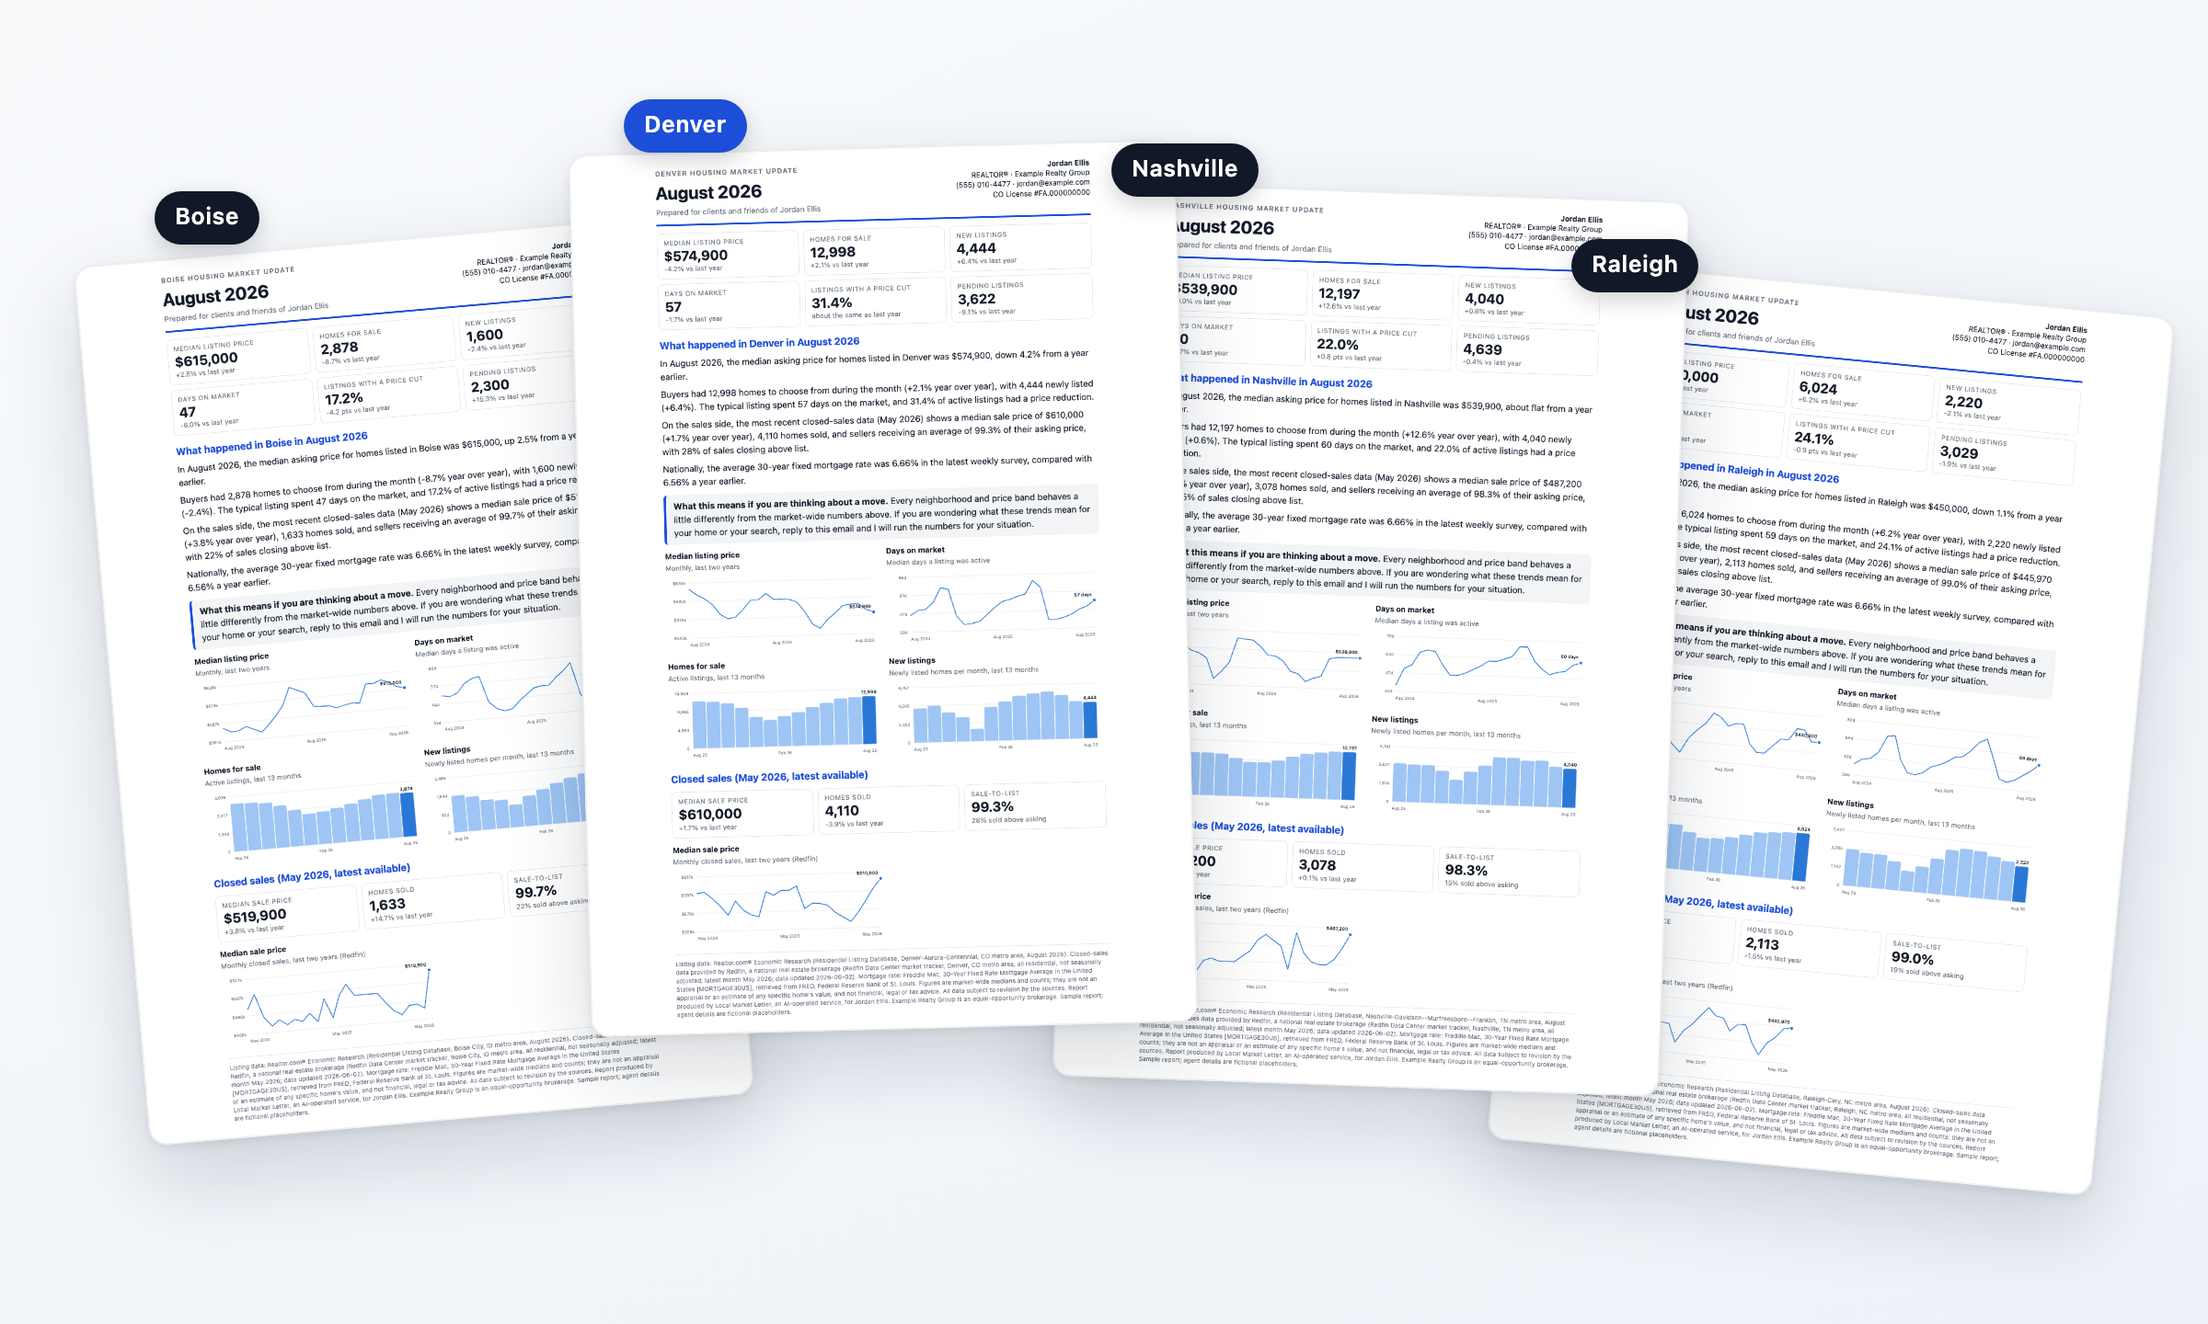
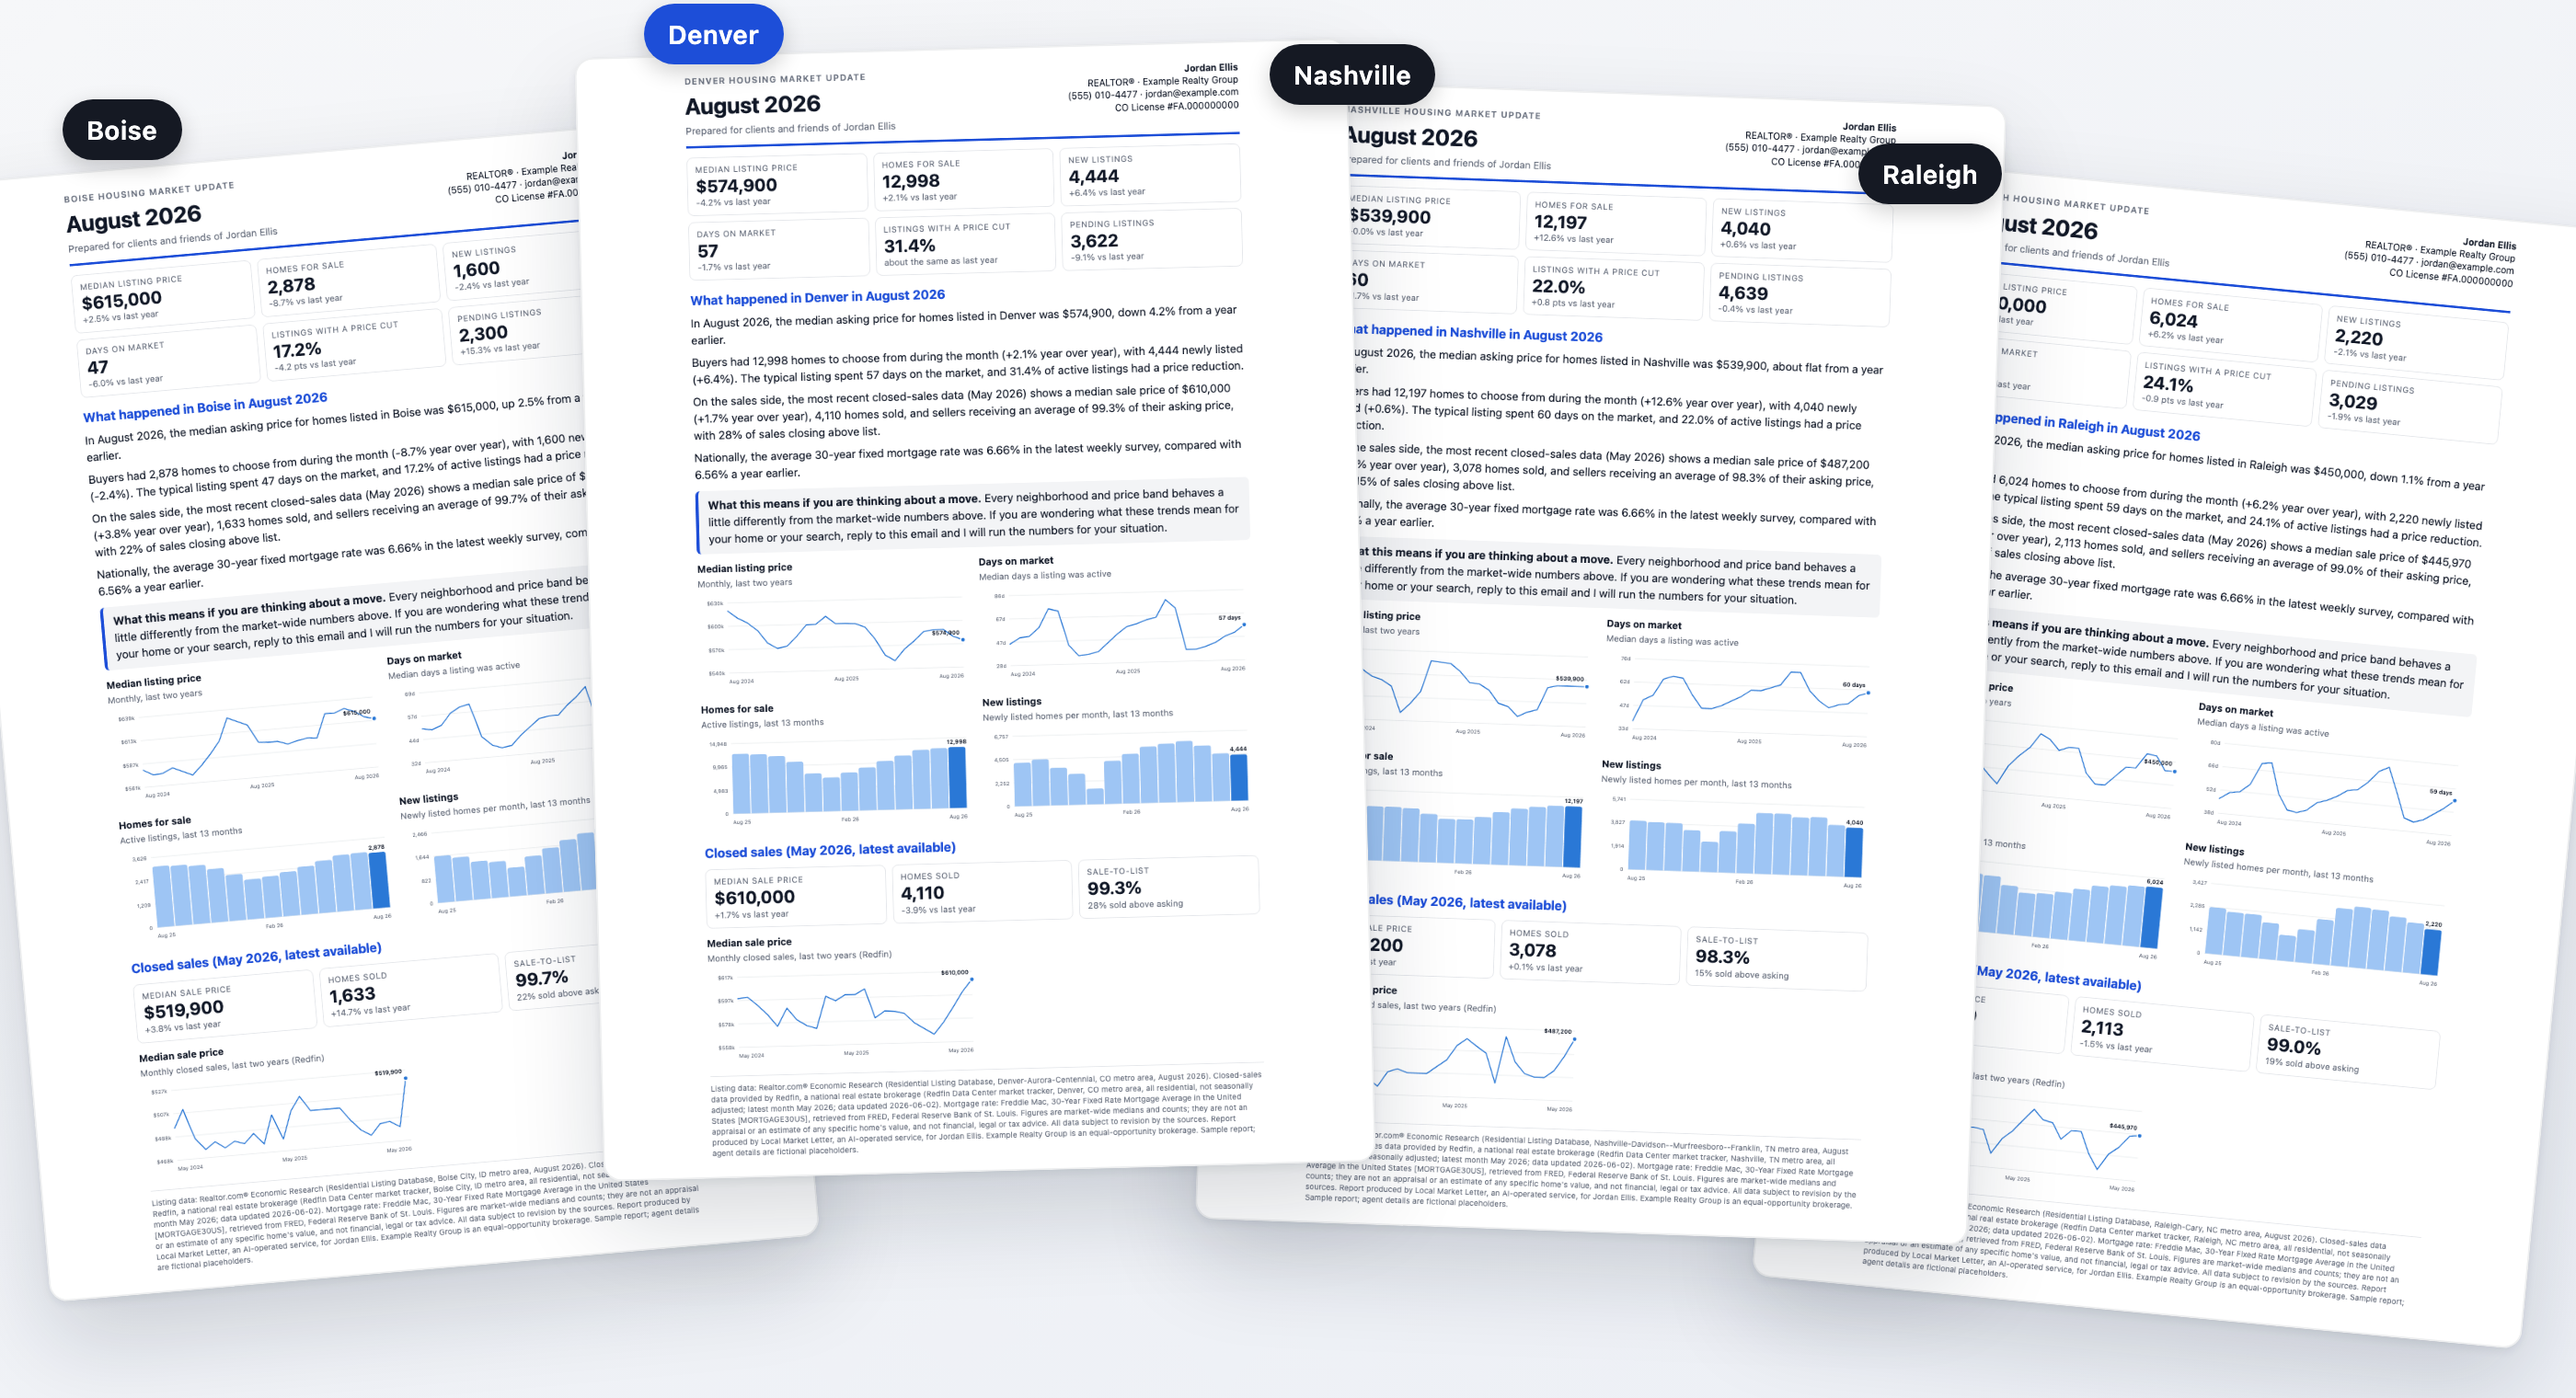
Full-width report spread under the hero copy

Changed region(s): [[0.0, 0.0, 1.0, 1.0], [0.6562, 0.6562, 0.6875, 0.7188]]

diff --git a/index.html b/index.html
@@ -56,13 +56,14 @@ nav ul a:hover{color:var(--ink)}
 .btn.sm{padding:.55rem 1rem;font-size:.92rem}
 
 /* hero: asymmetric split */
-.hero{padding:3.5rem 0 3rem}
-.hero .wrap{display:grid;grid-template-columns:1.1fr 1fr;gap:3rem;align-items:center}
+.hero{padding:3.5rem 0 2.5rem}
+.hero .wrap{display:grid;grid-template-columns:1fr;gap:2.5rem}
+.hero .copy{max-width:640px}
 .eyebrow{display:inline-block;font-size:.8rem;font-weight:600;letter-spacing:.06em;text-transform:uppercase;color:var(--brand);margin-bottom:1rem}
-.hero h1{font-size:clamp(2.1rem,3.4vw,2.6rem);font-weight:700;max-width:20ch;margin-bottom:1.1rem}
-.hero .lede{font-size:1.15rem;max-width:36ch;margin-bottom:1.6rem}
+.hero h1{font-size:clamp(2.2rem,4vw,3.1rem);font-weight:700;max-width:18ch;margin-bottom:1.1rem}
+.hero .lede{font-size:1.15rem;max-width:44ch;margin-bottom:1.6rem}
 .hero .ctas{display:flex;gap:.6rem;flex-wrap:wrap}
-.hero img{border-radius:var(--r);box-shadow:var(--shadow)}
+.hero img{border-radius:var(--r);box-shadow:var(--shadow);width:100%}
 
 .facts{border-top:1px solid var(--hair);border-bottom:1px solid var(--hair);background:var(--panel);padding:1.5rem 0}
 .facts .wrap{display:grid;grid-template-columns:repeat(4,1fr);gap:1.5rem}
@@ -147,7 +148,7 @@ footer b{color:var(--ink)}
 footer p{margin:0 0 .3rem}
 
 @media (max-width:900px){
-  .hero .wrap,.split,.bento,.plans,footer .wrap{grid-template-columns:1fr}
+  .split,.bento,.plans,footer .wrap{grid-template-columns:1fr}
   .hero{padding-top:2.5rem}
   .hero h1{max-width:none}
   .cell.big{grid-row:auto}
@@ -188,7 +189,7 @@ footer p{margin:0 0 .3rem}
 
   <section class="hero">
     <div class="wrap">
-      <div>
+      <div class="copy">
         <span class="eyebrow">For real estate agents and teams</span>
         <h1>A market report your clients will actually read.</h1>
         <p class="lede">For your city or county, with your name and brokerage on it. Arrives finished every month. First one's free.</p>
@@ -197,7 +198,7 @@ footer p{margin:0 0 .3rem}
           <a class="btn ghost" href="sample-denver-august-2026.pdf">See a sample (PDF)</a>
         </div>
       </div>
-      <img src="markets-example.png" alt="Four reports fanned out for the same agent: Boise, Denver, Nashville and Raleigh, each showing August 2026 headline figures, a short written summary and four charts." width="1200" height="720" fetchpriority="high">
+      <img src="markets-example.png" alt="Four reports fanned out for the same agent: Boise, Denver, Nashville and Raleigh, each showing August 2026 headline figures, a short written summary and four charts." width="1400" height="760" fetchpriority="high">
     </div>
   </section>
 
